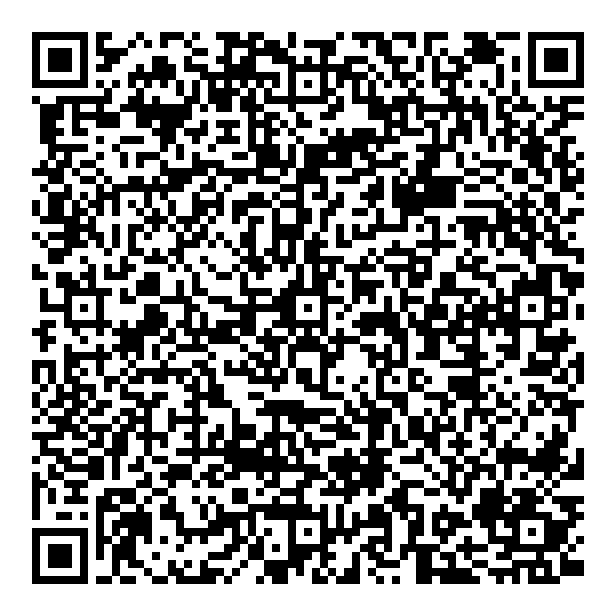
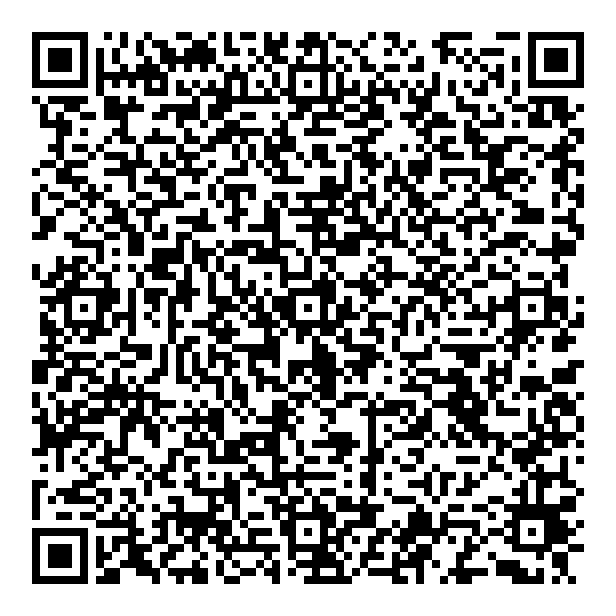
Format sponsorship WhatsApp message with line breaks
- Put the greeting, identity, support choice, request, and thanks on separate lines in print and WhatsApp links.
- Regenerate both QR codes and verify rendered payloads match the visible multiline message.
- Keep the contact layout within the existing 21-page A4 print contract.

diff --git a/proposal.html b/proposal.html
@@ -984,8 +984,8 @@
             <section>
               <h3>Narahubung Sponsorship</h3>
               <ul>
-                <li>Iqtifa — <a href="https://wa.me/6283117737967?text=Assalamualaikum%20wr.%20wb.%0ASaya%20%5Bnama%5D%20dari%20%5Busaha%2Finstansi%5D.%20Saya%20berminat%20mendukung%20Harlah%20ke-43%20melalui%20paket%20%5Bpilihan%20paket%5D%20%2F%20barang%20atau%20jasa%20%5Bbentuk%20dukungan%5D.%20Mohon%20informasi%20kerja%20samanya.%20Terima%20kasih.">+62 831-1773-7967</a></li>
-                <li>Zahwa — <a href="https://wa.me/6281330293995?text=Assalamualaikum%20wr.%20wb.%0ASaya%20%5Bnama%5D%20dari%20%5Busaha%2Finstansi%5D.%20Saya%20berminat%20mendukung%20Harlah%20ke-43%20melalui%20paket%20%5Bpilihan%20paket%5D%20%2F%20barang%20atau%20jasa%20%5Bbentuk%20dukungan%5D.%20Mohon%20informasi%20kerja%20samanya.%20Terima%20kasih.">+62 813-3029-3995</a></li>
+                <li>Iqtifa — <a href="https://wa.me/6283117737967?text=Assalamualaikum%20wr.%20wb.%0ASaya%20%5Bnama%5D%20dari%20%5Busaha%2Finstansi%5D.%0ASaya%20berminat%20mendukung%20Harlah%20ke-43%20melalui%20paket%20%5Bpilihan%20paket%5D%20%2F%20barang%20atau%20jasa%20%5Bbentuk%20dukungan%5D.%0AMohon%20informasi%20kerja%20samanya.%0ATerima%20kasih.">+62 831-1773-7967</a></li>
+                <li>Zahwa — <a href="https://wa.me/6281330293995?text=Assalamualaikum%20wr.%20wb.%0ASaya%20%5Bnama%5D%20dari%20%5Busaha%2Finstansi%5D.%0ASaya%20berminat%20mendukung%20Harlah%20ke-43%20melalui%20paket%20%5Bpilihan%20paket%5D%20%2F%20barang%20atau%20jasa%20%5Bbentuk%20dukungan%5D.%0AMohon%20informasi%20kerja%20samanya.%0ATerima%20kasih.">+62 813-3029-3995</a></li>
               </ul>
             </section>
             <section>
@@ -1001,16 +1001,16 @@
             <h3 id="sponsorship-whatsapp-title">Hubungi kami melalui WhatsApp</h3>
             <p>Pindai salah satu QR atau pilih kontak berikut. Sesuaikan nama, asal, dan pilihan dukungan sebelum mengirim pesan.</p>
             <div class="sponsorship-qr-grid">
-              <a class="sponsorship-qr" href="https://wa.me/6283117737967?text=Assalamualaikum%20wr.%20wb.%0ASaya%20%5Bnama%5D%20dari%20%5Busaha%2Finstansi%5D.%20Saya%20berminat%20mendukung%20Harlah%20ke-43%20melalui%20paket%20%5Bpilihan%20paket%5D%20%2F%20barang%20atau%20jasa%20%5Bbentuk%20dukungan%5D.%20Mohon%20informasi%20kerja%20samanya.%20Terima%20kasih.">
+              <a class="sponsorship-qr" href="https://wa.me/6283117737967?text=Assalamualaikum%20wr.%20wb.%0ASaya%20%5Bnama%5D%20dari%20%5Busaha%2Finstansi%5D.%0ASaya%20berminat%20mendukung%20Harlah%20ke-43%20melalui%20paket%20%5Bpilihan%20paket%5D%20%2F%20barang%20atau%20jasa%20%5Bbentuk%20dukungan%5D.%0AMohon%20informasi%20kerja%20samanya.%0ATerima%20kasih.">
                 <img src="/images/sponsorship-iqtifa-whatsapp-qr.png" width="616" height="616" alt="QR WhatsApp Iqtifa dengan format pesan sponsorship" />
                 <span><strong>Iqtifa</strong><br />+62 831-1773-7967</span>
               </a>
-              <a class="sponsorship-qr" href="https://wa.me/6281330293995?text=Assalamualaikum%20wr.%20wb.%0ASaya%20%5Bnama%5D%20dari%20%5Busaha%2Finstansi%5D.%20Saya%20berminat%20mendukung%20Harlah%20ke-43%20melalui%20paket%20%5Bpilihan%20paket%5D%20%2F%20barang%20atau%20jasa%20%5Bbentuk%20dukungan%5D.%20Mohon%20informasi%20kerja%20samanya.%20Terima%20kasih.">
+              <a class="sponsorship-qr" href="https://wa.me/6281330293995?text=Assalamualaikum%20wr.%20wb.%0ASaya%20%5Bnama%5D%20dari%20%5Busaha%2Finstansi%5D.%0ASaya%20berminat%20mendukung%20Harlah%20ke-43%20melalui%20paket%20%5Bpilihan%20paket%5D%20%2F%20barang%20atau%20jasa%20%5Bbentuk%20dukungan%5D.%0AMohon%20informasi%20kerja%20samanya.%0ATerima%20kasih.">
                 <img src="/images/sponsorship-zahwa-whatsapp-qr.png" width="616" height="616" alt="QR WhatsApp Zahwa dengan format pesan sponsorship" />
                 <span><strong>Zahwa</strong><br />+62 813-3029-3995</span>
               </a>
             </div>
-            <p class="sponsorship-message"><strong>Format pesan</strong><br />Assalamualaikum wr. wb.<br />Saya [nama] dari [usaha/instansi]. Saya berminat mendukung Harlah ke-43 melalui paket [pilihan paket] / barang atau jasa [bentuk dukungan]. Mohon informasi kerja samanya. Terima kasih.</p>
+            <p class="sponsorship-message"><strong>Format pesan</strong><br />Assalamualaikum wr. wb.<br />Saya [nama] dari [usaha/instansi].<br />Saya berminat mendukung Harlah ke-43 melalui paket [pilihan paket] / barang atau jasa [bentuk dukungan].<br />Mohon informasi kerja samanya.<br />Terima kasih.</p>
           </section>
           <dl class="full-channels">
             <div>

diff --git a/src/proposal-editorial.css b/src/proposal-editorial.css
@@ -406,6 +406,7 @@
 }
 .editorial-contact .full-channels {
   grid-template-columns: 1fr 1fr;
+  margin: 0;
 }
 .sponsorship-whatsapp {
   font-size: 13px;

diff --git a/README.md b/README.md
@@ -129,6 +129,8 @@ Indonesian message template (name, organization, and selected package/in-kind su
 The template and contact numbers are also printed as text. Local 616 × 616 px QR PNGs
 have four-module quiet zones and render at approximately 38 mm square on paper.
 The QR codes and contact-number links include the message; nothing is sent automatically.
+The visible message and both QR payloads use separate lines for the greeting,
+sender identity, requested support, information request, and thanks.
 Sponsor slides mean one shared Instagram appreciation carousel,
 separate from dedicated feed posts; recap logos appear at the end of one recap video.
 Logo sizing follows package hierarchy with visually equivalent sizing within each tier.
